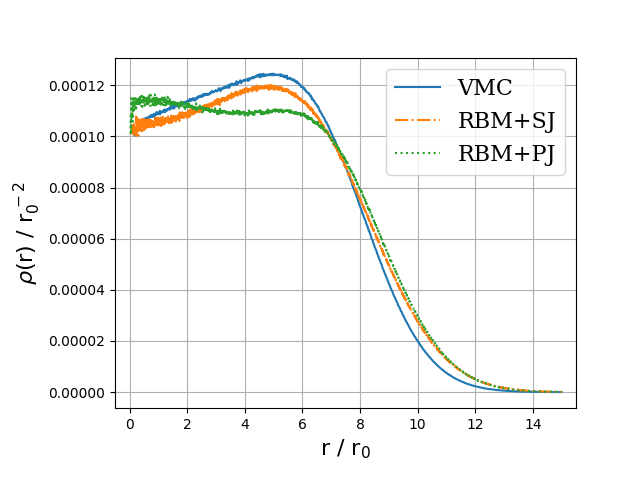
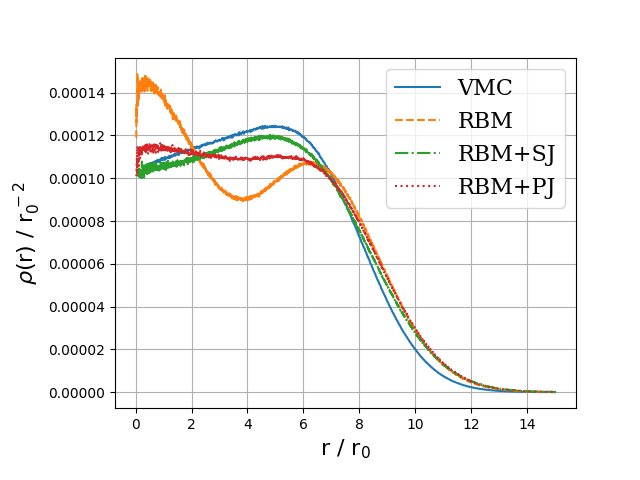
Added plots

diff --git a/scripts/plot_ob_density.py b/scripts/plot_ob_density.py
@@ -19,10 +19,10 @@ def exact(r1, w):
     '''Exact solution without interaction for given w'''
     return (2*r1+1)*np.exp(- w * r1**2)
 
-files = ["../data/int1/onebody/VMC/2D/72P/0.100000w/ADAM_MC1048576.dat",
-         #"../data/int1/onebody/RBM/2D/56P/1.000000w/ADAM_MC1048576.dat",
-         #"../data/int1/onebody/RBMSJ/2D/56P/1.000000w/ADAM_MC1048576.dat",
-         #"../data/int1/onebody/RBMPJ/2D/56P/1.000000w/ADAM_MC1048576.dat",
+files = ["../data/int1/onebody/VMC/2D/6P/0.100000w/ADAM_MC1048576.dat",
+         "../data/int1/onebody/RBM/2D/6P/0.100000w/ADAM_MC1048576.dat",
+         "../data/int1/onebody/RBMSJ/2D/6P/0.100000w/ADAM_MC1048576.dat",
+         "../data/int1/onebody/RBMPJ/2D/6P/0.100000w/ADAM_MC1048576.dat",
          ]
          
 label = ["VMC",
@@ -33,7 +33,7 @@ label = ["VMC",
          
 line_style = ["-", "--", "-.", ":"]
          
-maxRadius = [50,45,45,45]
+maxRadius = [15,15,15,15]
 
 for i in range(len(files)):
     data = np.loadtxt(files[i])
@@ -42,7 +42,7 @@ for i in range(len(files)):
     data /= maxRadius[i]
     data *= int(len(data)/1000)
     r = np.linspace(0,maxRadius[i],len(data))
-    data[:np.argmax(data)] = np.where(data[:np.argmax(data)] < 0.00005, 0, data[:np.argmax(data)])
+    data[:np.argmax(data)] = np.where(data[:np.argmax(data)] < 0.00010, 0, data[:np.argmax(data)])
     indices = np.where(data == 0)[0]
     data = np.delete(data, indices)
     r = np.delete(r, indices)

diff --git a/scripts/plot_tb_density.py b/scripts/plot_tb_density.py
@@ -79,12 +79,12 @@ def plot(data, radius):
 
 
 def main():
-    maxRadius = [45]
-    newRadius = [6,6,6,6,6,6,6,6,6,6,6,6]
+    maxRadius = [40]
+    newRadius = [6]
 
-    methods   = ['RBM']
+    methods   = ['RBMPJ']
     dims      = ['2']
-    particles = ['56']
+    particles = ['42']
     omegas    = ['1.000000'] #'1.000000','0.500000','0.280000','0.100000']      
 
     i=0

diff --git a/scripts/doublewell_functions.py b/scripts/doublewell_functions.py
@@ -55,7 +55,7 @@ if __name__ == '__main__':
     alpha = 2
     w = 1.0
     d = 1
-    n_ho = 12 # number of harmonic oscillator basis functions
+    n_ho = 1 # number of harmonic oscillator basis functions
 
     print_C_to_file(n_ho,w,d,alpha)
     plot_DW_function(0,x,n_ho,w,d,alpha)

diff --git a/scripts/plot_doublewell.py b/scripts/plot_doublewell.py
@@ -1,0 +1,7 @@
+import numpy as np
+import matplotlib.pyplot as plt
+
+data = np.loadtxt("../data/test.dat")
+
+plt.plot(data)
+plt.show()
